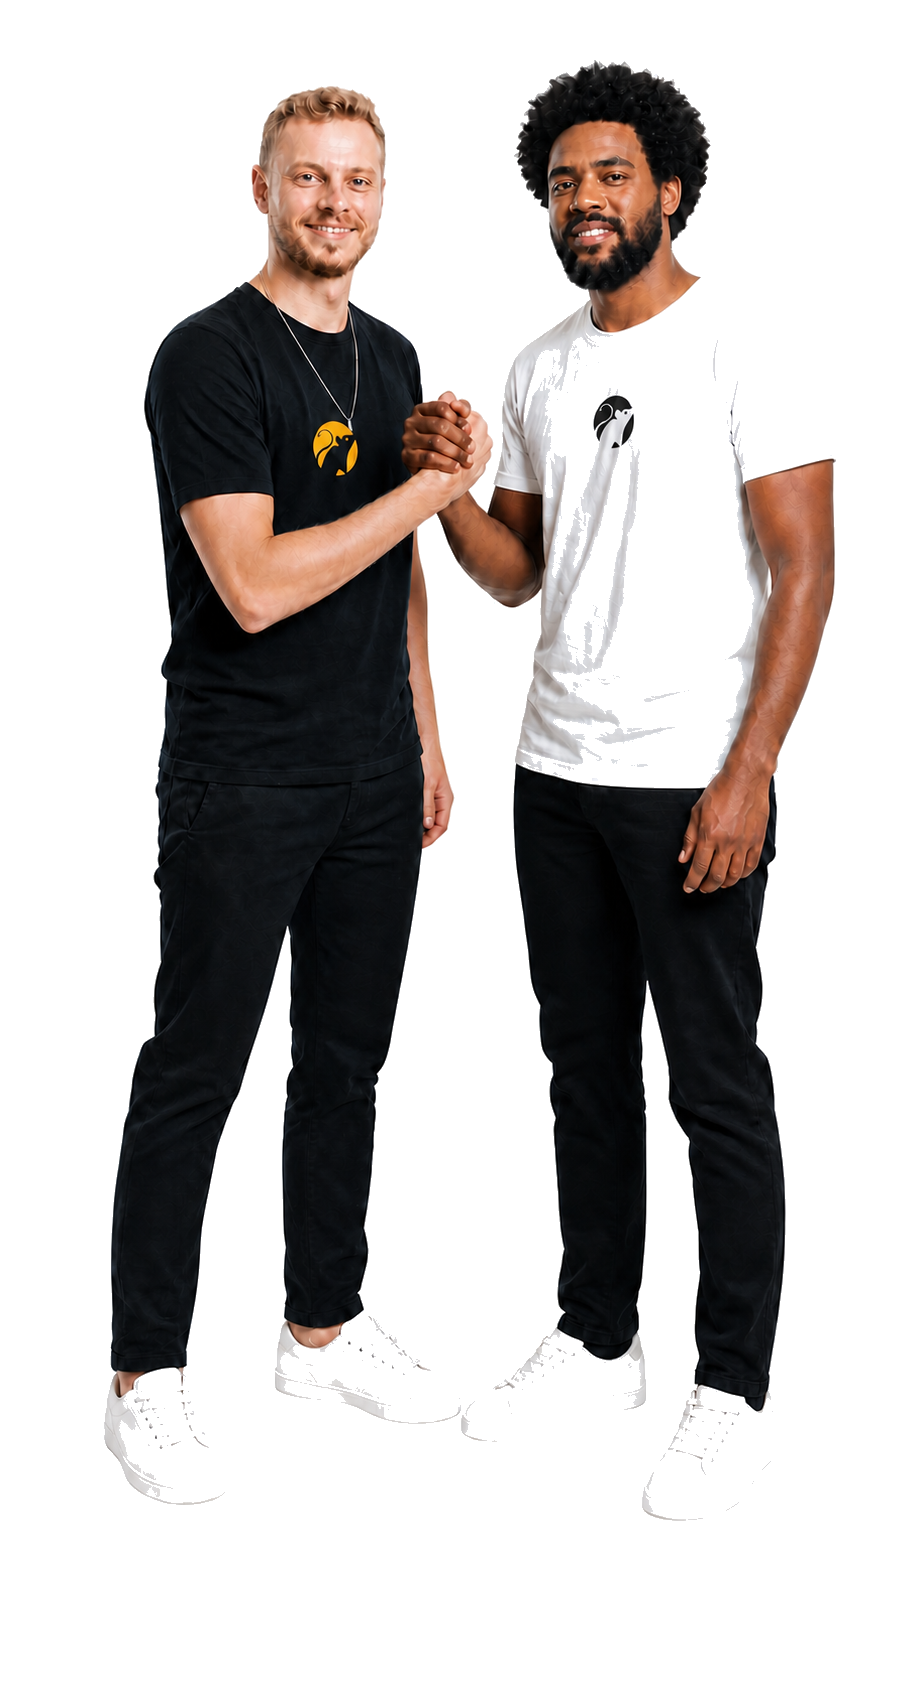
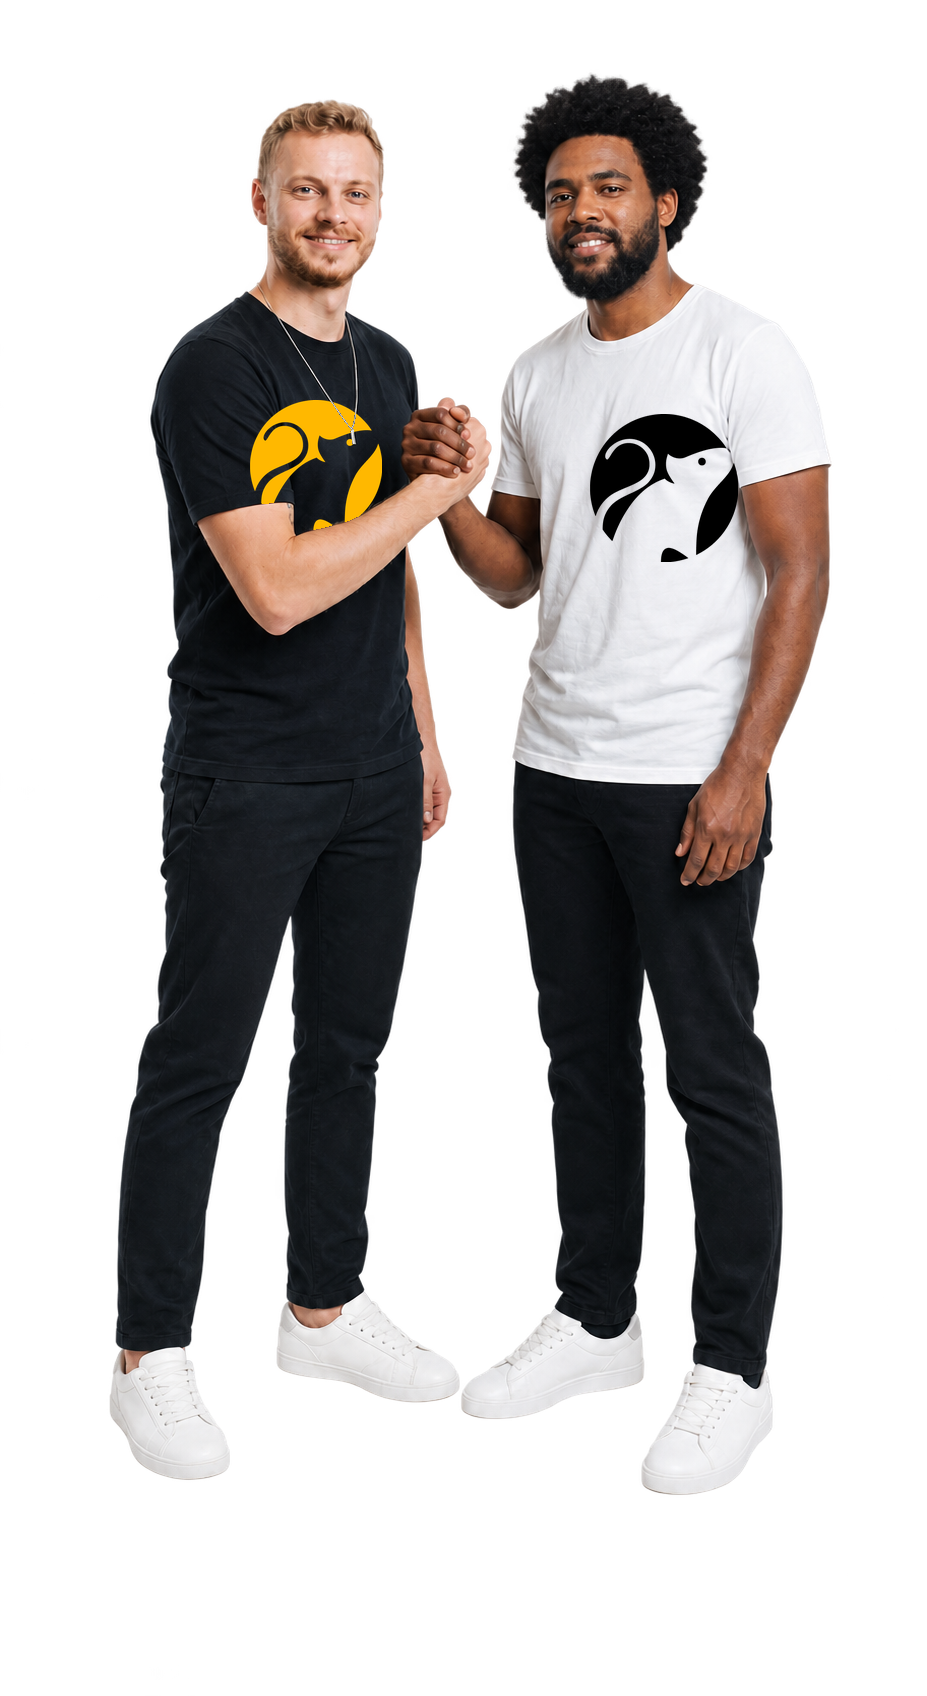
Corrige retrato e remove spotlight do hero

diff --git a/src/index.css b/src/index.css
@@ -302,21 +302,6 @@ input:-webkit-autofill:focus {
   }
 }
 
-.portrait-spot {
-  position: absolute;
-  z-index: 0;
-  bottom: 8%;
-  left: 50%;
-  width: 82%;
-  height: 68%;
-  border-radius: 50%;
-  background: #ffb800;
-  opacity: 0.25;
-  filter: blur(5rem);
-  transform: translateX(-50%);
-  pointer-events: none;
-}
-
 .portrait-partnership {
   top: 0;
   left: -12.5%;
@@ -330,6 +315,11 @@ input:-webkit-autofill:focus {
     min-height: 100svh;
   }
 
+  .portrait-partnership {
+    left: -45%;
+    width: 190%;
+    height: 190%;
+  }
 }
 
 @media (prefers-reduced-motion: reduce) {

diff --git a/src/components/HeroSection.jsx b/src/components/HeroSection.jsx
@@ -38,7 +38,6 @@ export default function HeroSection() {
           </div>
 
           <div className="portrait-stage relative order-first flex min-h-[26rem] items-start justify-center overflow-hidden lg:order-last">
-            <div className="portrait-spot" aria-hidden="true" />
             <img
               src={PartnershipPortrait}
               alt="Eitor e Dairo Junior sorrindo e cumprimentando-se"
